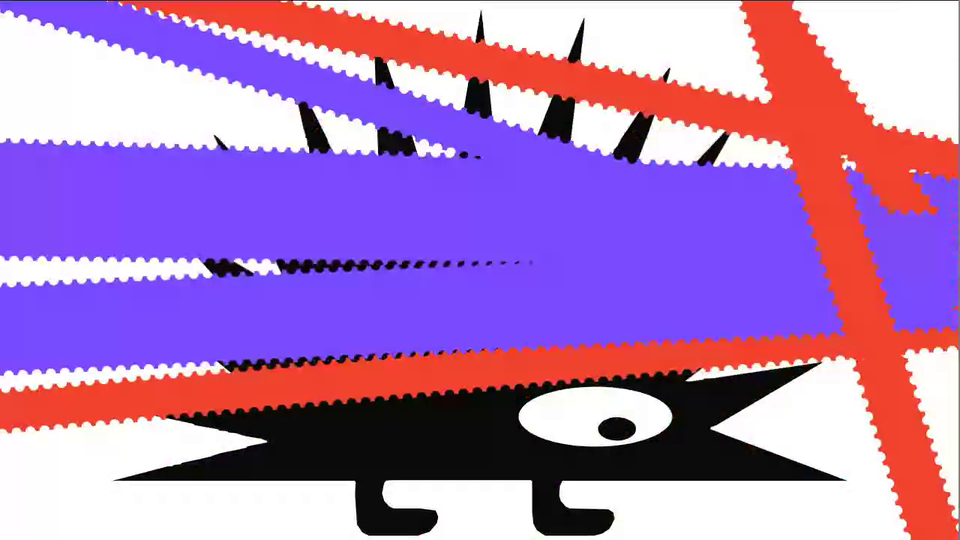
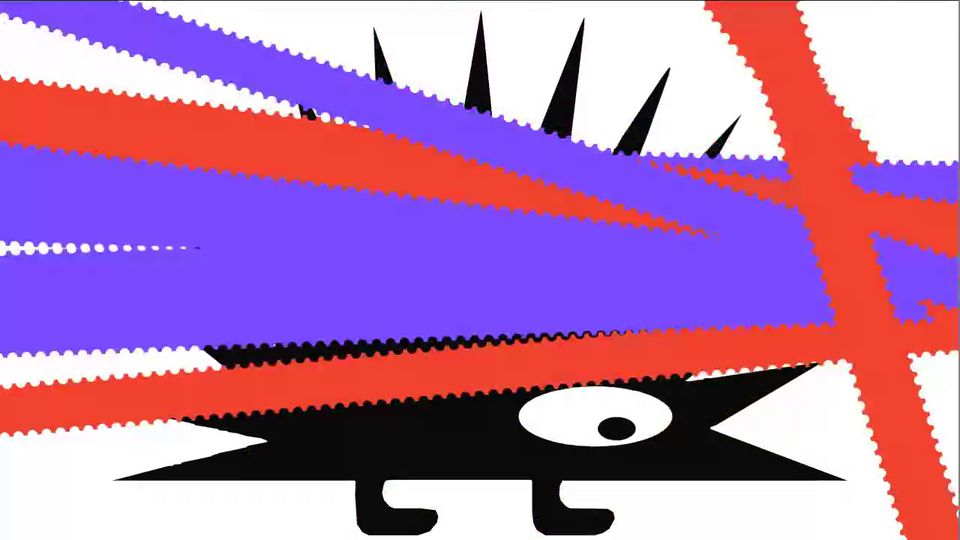
Porcupine Glitch: three whip zooms (eye, quills, feet) (#555)
* Add Porcupine Glitch: bare-quill porcupine under perforated bands filling ~68% of the screen

Claude-Session: https://claude.ai/code/session_01AHeBdxiyR9FJripaY1u8JF

* Porcupine Glitch: bands sweep in different directions, whip zooms into eye and quills, more porcupine visible

Claude-Session: https://claude.ai/code/session_01AHeBdxiyR9FJripaY1u8JF

* Porcupine Glitch: faster whip zoom, bands scale with the zoom and part around the focus, no stamp window

Claude-Session: https://claude.ai/code/session_01AHeBdxiyR9FJripaY1u8JF

* Porcupine Glitch: second whip zoom goes to the feet

Claude-Session: https://claude.ai/code/session_01AHeBdxiyR9FJripaY1u8JF

* Porcupine Glitch: three whip zooms per loop (eye, quills, feet)

Claude-Session: https://claude.ai/code/session_01AHeBdxiyR9FJripaY1u8JF

---------

diff --git a/porcupine-glitch/index.html b/porcupine-glitch/index.html
@@ -21,7 +21,7 @@ canvas{position:absolute;inset:0;width:100%;height:100%;display:block;background
 </head>
 <body>
 <nav class="back" aria-label="Sandbox"><a href="../">Sandbox</a><span class="x">/</span><a class="x" href="../">Back to all projects</a><span>/</span><b>Porcupine Glitch</b></nav>
-<main><canvas id="c" role="img" aria-label="A flat black porcupine with bare quills, buried under thick purple and red perforated bands that sweep fast in different directions, with whip zooms into the eye and the feet"></canvas></main>
+<main><canvas id="c" role="img" aria-label="A flat black porcupine with bare quills, buried under thick purple and red perforated bands that sweep fast in different directions, with whip zooms into the eye, the quills and the feet"></canvas></main>
 <script>
 const TAU = Math.PI * 2, PERIOD = 6, STEPS = 18; // bands re-aim 3 times a second; the camera whips twice per 6 s loop
 const PURPLE = '#7A4BFF', RED = '#F2442E', BLACK = '#0B0B0B', WHITE = '#FFFFFF';
@@ -96,12 +96,12 @@ function paintBands(ctx, W, H, t, gain, open) {
   }
 }
 
-/* ===== the camera: wide, whip in on a section, hold a beat, whip out, repeat on the other section (3 s cycle, two per loop; the whips take 0.12 s) ===== */
-const CYC = 3, ZMAX = 2.6, eio = (u) => { u = cl(u, 0, 1); return u < 0.5 ? 16 * u ** 5 : 1 - Math.pow(-2 * u + 2, 5) / 2; };
-const FOCI = [[647.8, 691.9, 0.13], [505, 790, 0.2]]; // the eye, then the feet: x, y (porcupine coordinates), radius of the opening (share of the short side)
+/* ===== the camera: wide, whip in on a section, hold a beat, whip out, repeat on the other section (2 s cycle, three per loop: eye, quills, feet; the whips take 0.12 s) ===== */
+const CYC = 2, ZMAX = 2.6, eio = (u) => { u = cl(u, 0, 1); return u < 0.5 ? 16 * u ** 5 : 1 - Math.pow(-2 * u + 2, 5) / 2; };
+const FOCI = [[647.8, 691.9, 0.13], [434, 330, 0.13], [505, 790, 0.2]]; // the eye, a fan of quills, then the feet: x, y (porcupine coordinates), radius of the opening (share of the short side)
 function cam(t) {
   t = ((t % PERIOD) + PERIOD) % PERIOD; const c = Math.floor(t / CYC), u = t % CYC; let p = 0, whip = false;
-  if (u >= 1.15 && u < 1.27) { p = eio((u - 1.15) / 0.12); whip = true; } else if (u >= 1.27 && u < 2.45) p = 1; else if (u >= 2.45 && u < 2.57) { p = 1 - eio((u - 2.45) / 0.12); whip = true; }
+  if (u >= 0.55 && u < 0.67) { p = eio((u - 0.55) / 0.12); whip = true; } else if (u >= 0.67 && u < 1.5) p = 1; else if (u >= 1.5 && u < 1.62) { p = 1 - eio((u - 1.5) / 0.12); whip = true; }
   return { c, p, whip };
 }
 function pSpace(W, H) { const sc = Math.min(W / 940, H / 700) * 1.02; return (q) => [W / 2 + (q[0] - 500) * sc, H / 2 + (q[1] - 508) * sc]; }

diff --git a/tools/record-clips.js b/tools/record-clips.js
@@ -91,7 +91,7 @@ const APPS = {
     await sleep(5600);
   } },
   // the three Thread brand visuals side by side, all moving on their own: the 3D characters turning 2 0 2 6 A B C, the frame lines drawing on and re-cutting, the calligraphy writing on and off (one 8 s loop, played at 1.33x)
-  // the porcupine under perforated purple and red bands sweeping in different directions, with two whip zooms (eye, feet) per 6 s loop; starts on the wide shot
+  // the porcupine under perforated purple and red bands sweeping in different directions, with three whip zooms (eye, quills, feet) per 6 s loop; starts on the wide shot
   'porcupine-glitch': { vp: [1280, 769], crop: [0, 49, 1280, 720], hash: '#from=-1.8', ready: 1000, q: 55, run: async (p) => { await sleep(5800); } },
   'postmark-awards-brand-visuals': { vp: [1280, 769], crop: [0, 49, 1280, 720], ready: 1500, q: 55, run: async (p) => { await sleep(5600); } },
   'thread-brand-visuals': { vp: [1280, 769], crop: [0, 49, 1280, 720], hash: '#from=8.4', ready: 1500, q: 55, run: async (p) => { await sleep(5600); } },
